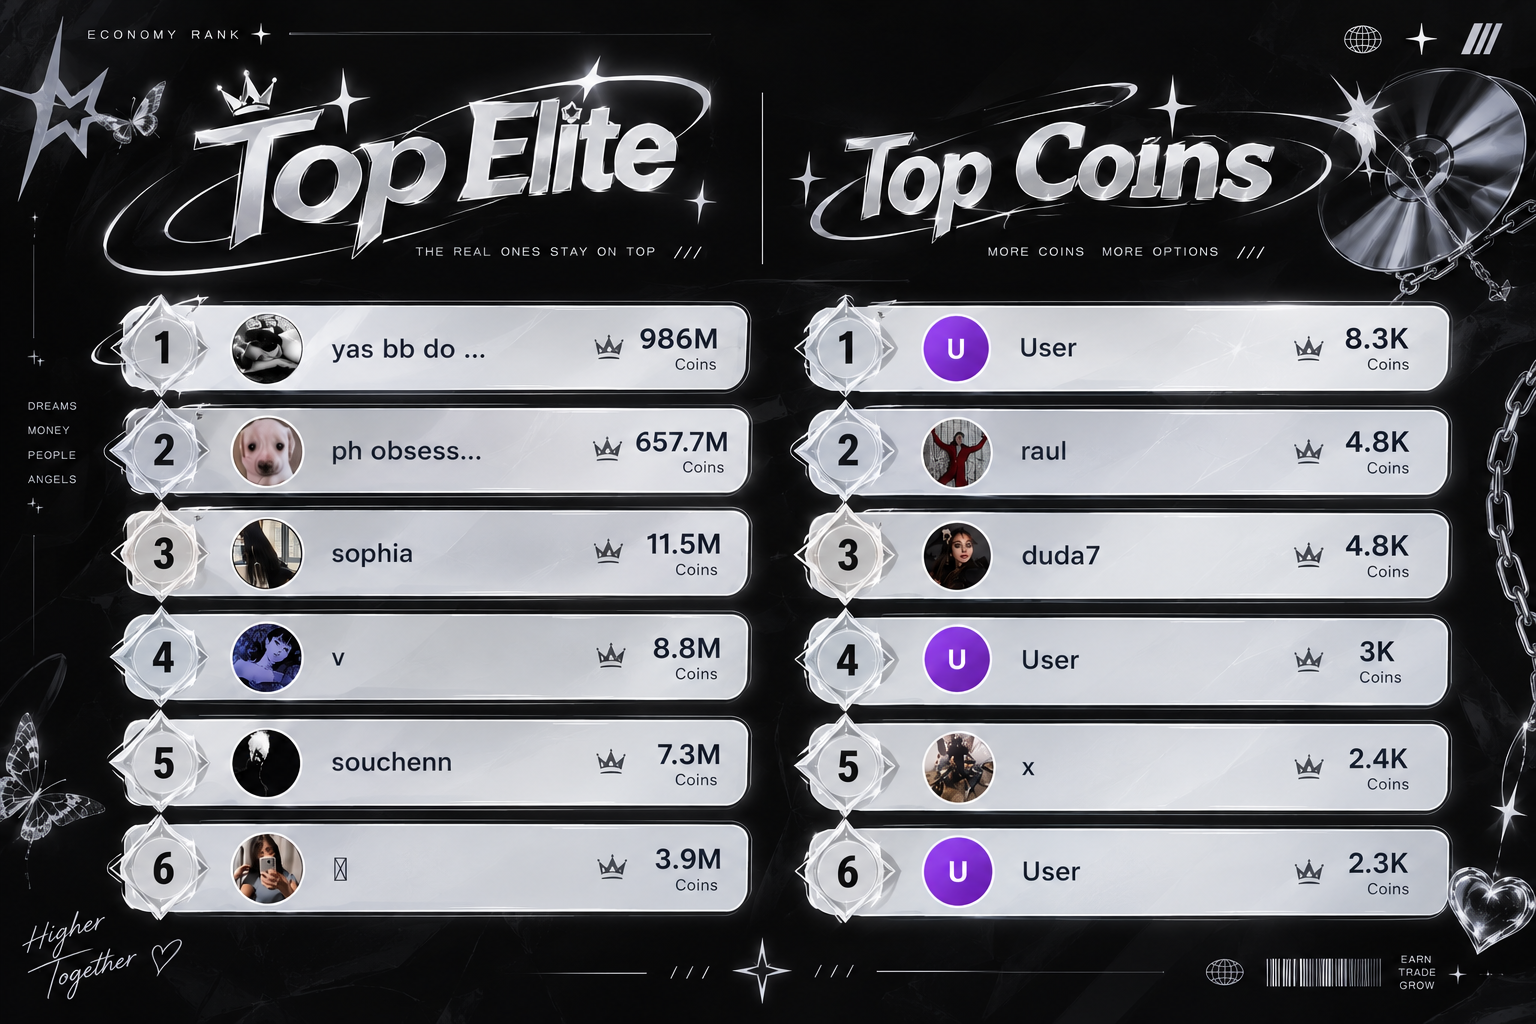
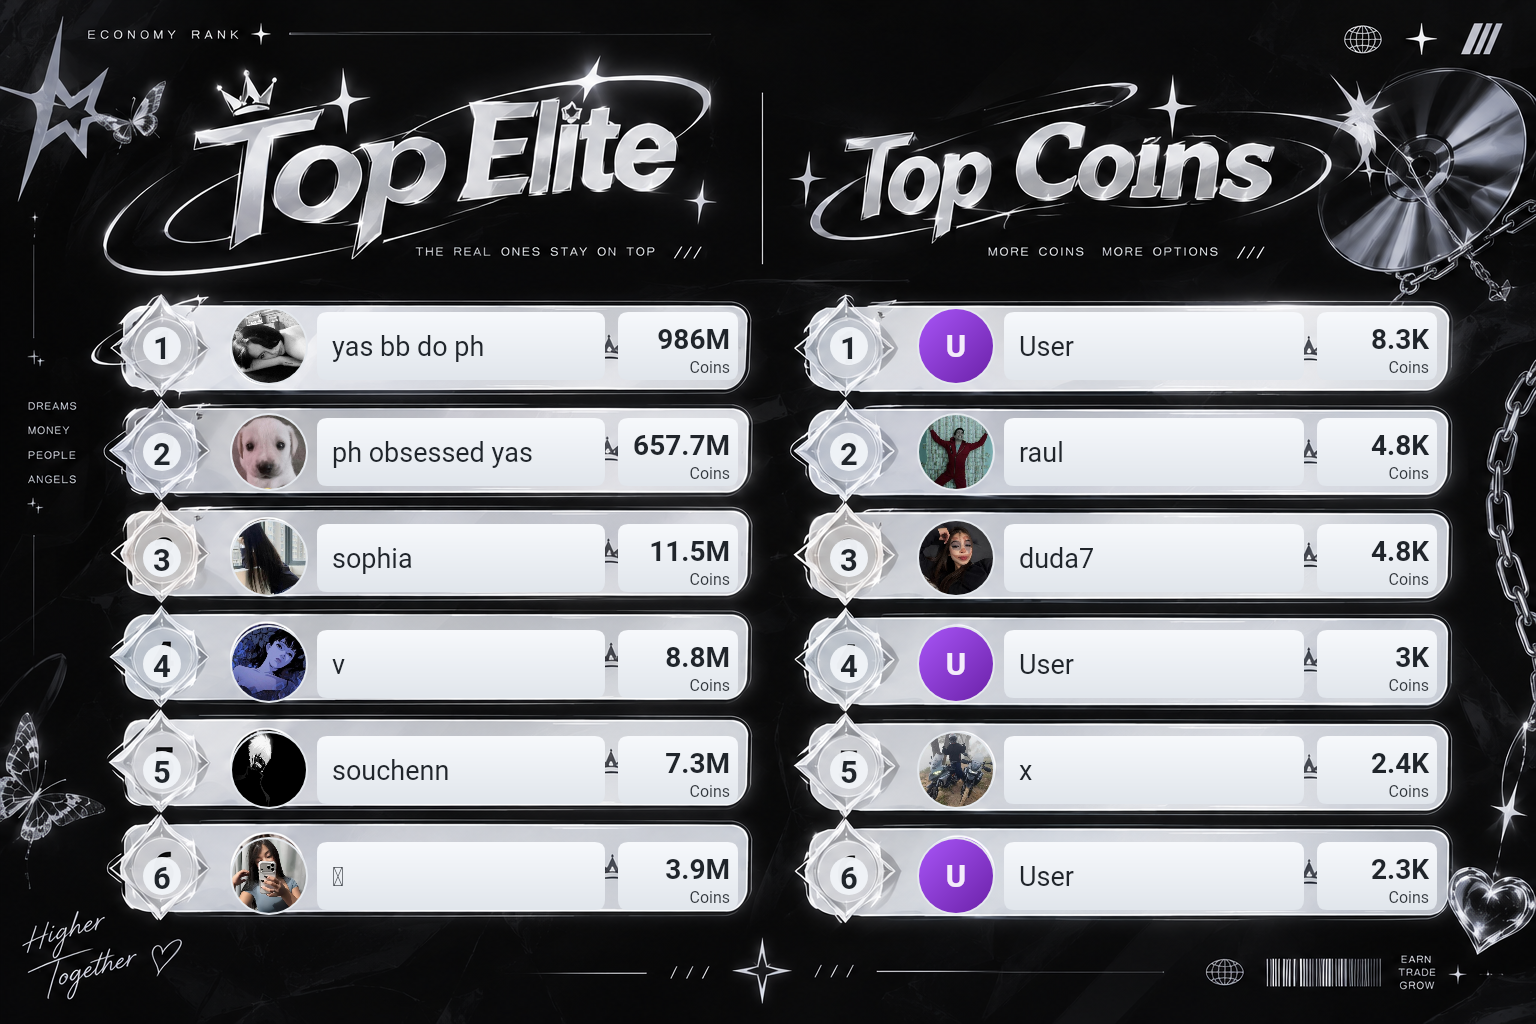
Preserve supplied economy card artwork

diff --git a/discord-bot/src/utils/economyCards.js b/discord-bot/src/utils/economyCards.js
@@ -941,14 +941,79 @@ function walletValueParts(value) {
     : { primary: formatted.slice(0, splitAt), secondary: formatted.slice(splitAt + 1) };
 }
 
+function restoreTemplateText(ctx, x, y, w, h, mode) {
+  const image = ctx.getImageData(x, y, w, h);
+  const original = new Uint8ClampedArray(image.data);
+  const isTextPixel = (index) => {
+    const r = original[index];
+    const g = original[index + 1];
+    const b = original[index + 2];
+    const brightness = (r + g + b) / 3;
+    const neutral = Math.max(r, g, b) - Math.min(r, g, b) < 55;
+    return mode === 'light'
+      ? neutral && brightness > 70
+      : neutral && brightness < 215;
+  };
+
+  const sample = (px, py) => {
+    const index = (py * w + px) * 4;
+    return [
+      original[index],
+      original[index + 1],
+      original[index + 2],
+      original[index + 3],
+    ];
+  };
+
+  // Remove only the template's printed glyphs. Sampling the surrounding
+  // artwork keeps its grain, reflections and gradients instead of painting
+  // a visible flat rectangle over the supplied design.
+  for (let py = 0; py < h; py += 1) {
+    for (let px = 0; px < w; px += 1) {
+      const index = (py * w + px) * 4;
+      if (!isTextPixel(index)) continue;
+
+      let replacement = null;
+      for (let distance = 8; distance <= 28 && !replacement; distance += 2) {
+        const candidates = [
+          [px, py - distance],
+          [px, py + distance],
+          [px - distance, py],
+          [px + distance, py],
+        ];
+        const valid = candidates
+          .filter(([candidateX, candidateY]) => (
+            candidateX >= 0 && candidateX < w &&
+            candidateY >= 0 && candidateY < h &&
+            !isTextPixel((candidateY * w + candidateX) * 4)
+          ))
+          .map(([candidateX, candidateY]) => sample(candidateX, candidateY));
+        if (valid.length >= 2) {
+          replacement = valid.reduce(
+            (total, color) => total.map((value, channel) => value + color[channel]),
+            [0, 0, 0, 0],
+          ).map(value => Math.round(value / valid.length));
+        }
+      }
+
+      if (replacement) {
+        image.data[index] = replacement[0];
+        image.data[index + 1] = replacement[1];
+        image.data[index + 2] = replacement[2];
+        image.data[index + 3] = replacement[3];
+      }
+    }
+  }
+
+  ctx.putImageData(image, x, y);
+}
+
 function drawWalletTemplateValue(ctx, value, y) {
   const { primary, secondary } = walletValueParts(value);
 
-  // Remove the example value while leaving the template's panel texture and
-  // the static labels/icons untouched.
-  ctx.fillStyle = 'rgba(7, 10, 14, 0.98)';
-  roundRect(ctx, 310, y - 43, 575, secondary ? 95 : 70, 12);
-  ctx.fill();
+  // Erase only the sample value. The panel texture and its static label stay
+  // untouched, so the supplied artwork remains the actual card design.
+  restoreTemplateText(ctx, 320, y - 43, 555, secondary ? 92 : 54, 'light');
 
   ctx.textAlign = 'left';
   ctx.fillStyle = '#F4F5F7';
@@ -996,9 +1061,9 @@ export async function generateBalanceCard({ username, avatarUrl, balance, bank }
   ctx.restore();
 
   // The reference uses a single centered display name below the portrait.
-  ctx.fillStyle = 'rgba(5, 7, 10, 0.92)';
-  ctx.fillStyle = '#05070A';
-  ctx.fillRect(135, 458, 754, 66);
+  // Restore the artwork around the sample name instead of covering it with a
+  // solid bar; this preserves the subtle black texture and underline.
+  restoreTemplateText(ctx, 135, 475, 754, 62, 'light');
   ctx.textAlign = 'center';
   ctx.fillStyle = '#F4F4F6';
   fitCardText(ctx, username || 'Usuário', 720, 46, '700', 'italic');
@@ -1439,35 +1504,9 @@ function drawRankingTemplateRow(ctx, x, y, w, entry, rank, avatarImg, value) {
   const avatarCx = x + 157;
   const avatarR = 37;
 
-  // The PNG contains example users and amounts. Cover those fields only;
-  // the card edges, ornaments, medals, and typography remain from the design.
-  const rowCover = ctx.createLinearGradient(x, y + 8, x, y + rowH - 8);
-  rowCover.addColorStop(0, '#F7F9FC');
-  rowCover.addColorStop(1, '#E0E5EB');
-  ctx.fillStyle = rowCover;
-  roundRect(ctx, x + 205, y + 10, w - 350, rowH - 20, 10);
-  ctx.fill();
-  roundRect(ctx, x + w - 132, y + 10, 120, rowH - 20, 10);
-  ctx.fill();
-
-  // Replace the example rank while retaining the crystal-shaped badge around it.
-  ctx.fillStyle = 'rgba(240, 243, 247, 0.98)';
-  ctx.beginPath();
-  ctx.arc(x + 50, centerY, 19, 0, Math.PI * 2);
-  ctx.fill();
-  ctx.fillStyle = '#20252B';
-  ctx.font = `700 31px ${FONT}`;
-  ctx.textAlign = 'center';
-  ctx.textBaseline = 'middle';
-  ctx.fillText(String(rank), x + 50, centerY + 1);
-  ctx.textBaseline = 'alphabetic';
-
-  // Replace the example avatar. Missing entries get a neutral empty slot so
-  // illustrative members from the template never leak into a real ranking.
-  ctx.fillStyle = '#E4E8ED';
-  ctx.beginPath();
-  ctx.arc(avatarCx, centerY, avatarR + 2, 0, Math.PI * 2);
-  ctx.fill();
+  // The rank badge, crystal frame, row outline, crown/hourglass icon and
+  // "Coins" label belong to the supplied artwork. Do not redraw them.
+  // Only the member-specific data is replaced.
   if (entry) {
     ctx.save();
     ctx.beginPath();
@@ -1481,22 +1520,30 @@ function drawRankingTemplateRow(ctx, x, y, w, entry, rank, avatarImg, value) {
     ctx.restore();
   }
 
+  // Remove only the example name. Pixel-level restoration keeps the new
+  // artwork, reflections, borders and decorative icon untouched.
+  const nameX = x + 220;
+  const nameW = Math.min(285, w - 385);
+  restoreTemplateText(ctx, nameX, centerY - 23, nameW, 42, 'dark');
+
+  // Remove only the example amount. Keep the artwork's icon and the existing
+  // "Coins" caption intact.
+  const amountX = x + w - 116;
+  restoreTemplateText(ctx, amountX, centerY - 28, 96, 40, 'dark');
+
   if (!entry) return;
 
   const name = entry.username || 'Usuário';
   ctx.fillStyle = '#20252B';
   ctx.textAlign = 'left';
-  fitCardText(ctx, name, 310, 27, '400');
-  ctx.fillText(truncateText(ctx, name, 310), x + 220, centerY + 10);
+  fitCardText(ctx, name, nameW, 27, '400');
+  ctx.fillText(truncateText(ctx, name, nameW), nameX, centerY + 10);
 
   const amountText = fmtCompactTop(value);
   ctx.textAlign = 'right';
   ctx.fillStyle = '#20252B';
   fitCardText(ctx, amountText, 104, 28, '700');
   ctx.fillText(amountText, x + w - 20, centerY + 3);
-  ctx.fillStyle = '#30353B';
-  ctx.font = `400 16px ${FONT}`;
-  ctx.fillText('Coins', x + w - 20, centerY + 27);
   ctx.textAlign = 'left';
 }
 
